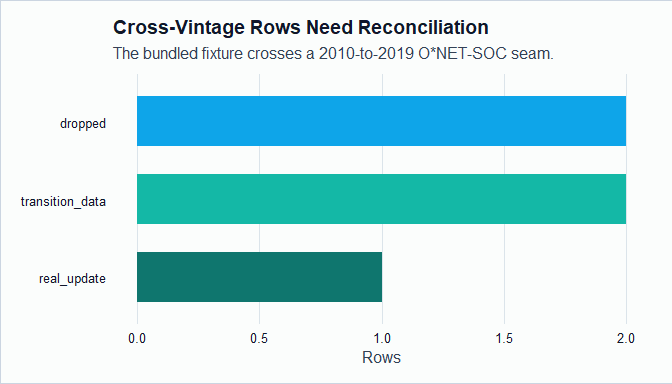
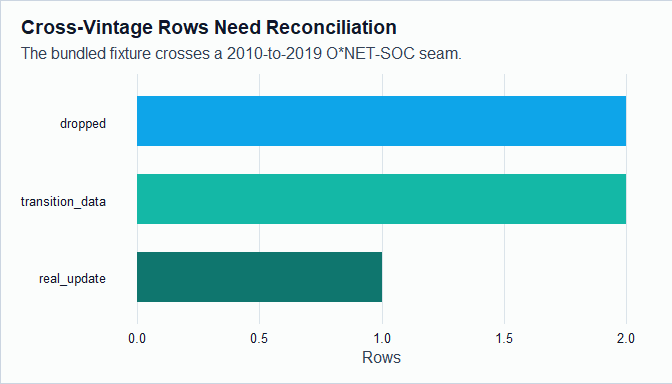
Remove article humor, fix chart clarity and truncation, GitHub-only install

Changed region(s): [[0.0312, 0.0312, 0.75, 0.0938], [0.0312, 0.125, 0.8438, 0.1562]]

diff --git a/README.md b/README.md
@@ -13,10 +13,6 @@ employment weights, coverage, and provenance.
 
 ## Installation
 
-``` r
-install.packages("onet2r")
-```
-
 You can install the development version from GitHub:
 
 ``` r